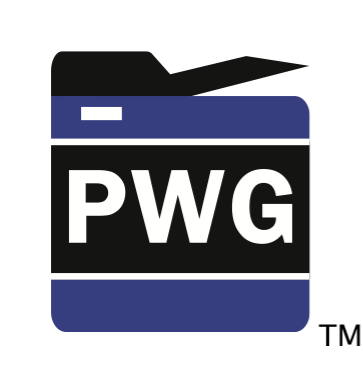
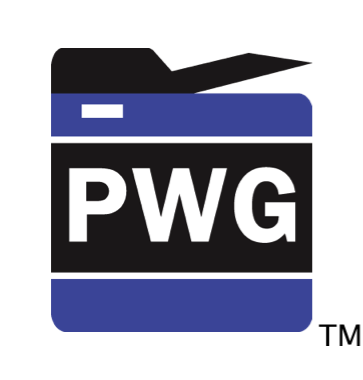
Update the home page to use the new layout but don't use the carousel - instead use expandable panels under the "jumbotron" with what we are announcing (last calls, upcoming meetings, etc.)
Also update logo images - noticed the new versions were substantially darker
than the originals - must be an issue with the default colorspace used when
importing EPS files...  Will want to update these again if I can figure things
out since we want high-res for retina displays...

diff --git a/dynamo/resources/pwg.css b/dynamo/resources/pwg.css
@@ -15,12 +15,12 @@ h1, h2, h3, h4, h5, h6, p, td, th {
 
 .jumbotron {
   border-radius: 8px;
-  padding: 20px;
-  padding-bottom: 20px;
-  padding-top: 1px;
+  padding: 1px 20px 10px;
+/*  padding-bottom: 20px;
+  padding-top: 1px;*/
 }
 
-.jumbotron, #pwg-rolling, #pwg-rolling .carousel-inner {
+#pwg-rolling, #pwg-rolling .carousel-inner {
   height: 300px;
 }
 
@@ -145,6 +145,34 @@ input[type="checkbox"] {
   height: 16px !important;
 }
 
+.pwg-logo {
+  height: 190px;
+  margin: -15px 15px 0px -20px; /* top right bottom left */
+  width: 181px;
+}
+
+.pwg-right {
+  float: right;
+}
+
+.panel-heading {
+  font-weight: bold;
+}
+
+.pwg-alert-panel {
+  border-left: 5px solid #4b5aa8;
+  border-right: 5px solid #4b5aa8;
+}
+
+.pwg-alert-panel a {
+  color: black;
+}
+
+.pwg-alert-panel a:hover  {
+  color: #4b5aa8;
+  text-decoration: none;
+}
+
 /* Some old site styles we are keeping around for now... */
 #PWGInfo TD {
   padding-right: 10px;
@@ -190,20 +218,6 @@ P.PWGHanging {
 
 P.PWGList A {
   white-space: nowrap;
-}
-
-.pwg-logo {
-  height: 190px;
-  margin: -15px 15px 0px -20px; /* top right bottom left */
-  width: 181px;
-}
-
-.pwg-logo-right {
-  float: right;
-}
-
-.panel-heading {
-  font-weight: bold;
 }
 
 /* Appearance tweaks for navigation bar */

diff --git a/dynamo/index.php b/dynamo/index.php
@@ -6,79 +6,114 @@
 include_once "phplib/site.php";
 include_once "phplib/db-article.php";
 
-site_header("Printer Working Group", "Making printers, multi-function devices, and software better with public standards.");
+site_header("");
 
-$matches  = article_search();
-$carousel = array();
+$matches = article_search();
 
-for ($i = 0, $count = 0; $i < sizeof($matches); $i ++)
+
+?>
+
+<div class="jumbotron">
+  <h1><img class="pwg-logo pwg-right hidden-xs" src="<?print($html_path);?>dynamo/resources/pwg-medium@2x.png">The Printer Working Group</h1>
+  <p>Our members include printer and multi-function device manufacturers, print server developers, operating system providers, print management application developers, and industry experts. We make printers, multi-function devices, and the applications and operating systems supporting them work together better.</p>
+  <p><a class="btn btn-primary btn-lg" href="<?print($html_path);?>about.html">More Info</a></p>
+</div>
+
+<?
+
+$firsttime = TRUE;
+
+for ($i = 0; $i < sizeof($matches); $i ++)
 {
   $article = new article($matches[$i]);
 
-  if ($article->id !== $matches[$i] || $article->display_until_date == "" || $article->display_until_date < date("Y-m-d"))
+  if ($article->display_until_date == "" || $article->display_until_date < date("Y-m-d") || $article->id != $matches[$i])
     continue;
 
-  $count ++;
-  $carousel["D$article->display_until_date+A$article->id"] = $article;
-}
-
-ksort($carousel);
-$carousel = array_values($carousel);
-
-print("<div class=\"jumbotron\">\n");
-if (sizeof($carousel) > 0)
-{
-  print("<div id=\"pwg-rolling\" class=\"carousel slide\" data-ride=\"carousel\">\n"
-       ."<ol class=\"carousel-indicators\">\n"
-       ."<li class=\"active\" data-target=\"#pwg-rolling\" data-slide-to=\"$i\"></li>\n");
-  for ($i = 1; $i <= sizeof($carousel); $i ++)
-    print("<li data-target=\"#pwg-rolling\" data-slide-to=\"$i\"></li>\n");
-  print("</ol>\n"
-       ."<div class=\"carousel-inner\">\n");
-  for ($i = 0; $i < sizeof($carousel); $i ++)
+  if ($firsttime)
   {
-    if ($i == 0)
-      print("<div class=\"item active\">");
-    else
-      print("<div class=\"item\">");
-
-    $article = $carousel[$i];
-    $article->view("", 1, FALSE, "btn-lg");
-    print("</div>\n");
+    print("<div class=\"panel-group\" id=\"pwg-display-until\">\n");
+    $firsttime = FALSE;
   }
 
-  print("<div class=\"item\">");
+  $title    = htmlspecialchars($article->title);
+  $contents = html_format($article->contents);
+  $url      = htmlspecialchars($article->url, ENT_QUOTES);
+
+  print("<div class=\"panel panel-default pwg-alert-panel\">\n"
+       ."  <div class=\"panel-heading\"><a class=\"pwg-right\" href=\"#a$article->id\" data-toggle=\"collapse\" data-parent=\"#pwg-display-until\"><span class=\"glyphicon glyphicon-chevron-down\"></span></a><a href=\"#a$article->id\" data-toggle=\"collapse\" data-parent=\"#pwg-display-until\">$title</a></div>\n"
+       ."  <div id=\"a$article->id\" class=\"panel-collapse collapse\">\n"
+       ."    <div class=\"panel-body\">$contents\n"
+       ."      <p><a class=\"btn btn-default btn-sm\" href=\"$url\">More Info</a></p>\n"
+       ."    </div>\n"
+       ."  </div>\n"
+       ."</div>\n");
 }
 
-print("<h1>The Printer Working Group</h1>\n"
-     ."<p>Our members include printer and multi-function device manufacturers, print server developers, operating system providers, print management application developers, and industry experts. We make printers, multi-function devices, and the applications and operating systems supporting them work together better.</p>\n"
-     ."<p><a class=\"btn btn-primary btn-lg\" href=\"${html_path}about.html\">More Info</a></p>\n");
-
-if (sizeof($carousel) > 0)
-  print("</div>\n"
-       ."</div>\n"
-       ."</div>\n"
-       ."</div>\n");
-else
+if (!$firsttime)
   print("</div>\n");
 
-print("<h1>PWG News</h1>\n");
+?>
+<div class="row">
+  <div class="col-md-3 col-sm-6">
+    <div class="panel panel-default">
+      <div class="panel-heading">Standards</div>
+      <div class="panel-body">
+        <p>PWG Standards define all of the common network protocols used by your printer.</p>
+        <p><a class="btn btn-default btn-sm" href="<?print($html_path);?>standards.html">More Info</a></p>
+      </div>
+    </div>
+  </div>
+  <div class="col-md-3 col-sm-6">
+    <div class="panel panel-default">
+      <div class="panel-heading">IPP Everywhere</div>
+      <div class="panel-body">
+	<p>Print to any network or USB printer without using special software from the manufacturer.</p>
+	<p><a class="btn btn-default btn-sm" href="<?print($html_path);?>ipp/everywhere.html">More Info</a><?
+	  if ($SITE_SHOW_BETA)
+	    print(" <a class=\"btn btn-default btn-sm\" href=\"${html_path}dynamo/eveprinters.php\">Find Printers</a>\n");?></p>
+      </div>
+    </div>
+  </div>
+  <div class="col-md-3 col-sm-6">
+    <div class="panel panel-default">
+      <div class="panel-heading">PWG Semantic Model</div>
+      <div class="panel-body">
+        <p>Support multiple network protocols and job ticket formats using our abstract model.</p>
+        <p><a class="btn btn-default btn-sm" href="<?print($html_path);?>sm/index.html">More Info</a></p>
+      </div>
+    </div>
+  </div>
+  <div class="col-md-3 col-sm-6">
+    <div class="panel panel-default">
+      <div class="panel-heading">SNMP MIBs</div>
+      <div class="panel-body">
+        <p>Monitor jobs, status, and supplies, and manage your printers remotely using SNMP.</p>
+        <p><a class="btn btn-default btn-sm" href="<?print($html_path);?>wims/index.html">More Info</a></p>
+      </div>
+    </div>
+  </div>
+</div>
+<div class="row">
+<div class="col-md-12">
+  <div class="panel panel-default"><div class="panel-heading">PWG News</div>
+  <div class="panel-body">
+<?
 
 for ($i = 0, $count = 0; $i < sizeof($matches) && $count < 5; $i ++)
 {
   $article = new article($matches[$i]);
 
-  if ($article->display_until_date != "")
-    continue;
-
   if ($article->id == $matches[$i])
   {
     $count ++;
-    $article->view("", 2, FALSE);
+    $article->view("", 3, FALSE);
   }
 }
 
-print("<p><a class=\"btn btn-default btn-xs\" href=\"${html_path}/dynamo/articles.php\">View Older Articles</a></p>\n");
+print("<p><a class=\"btn btn-default btn-xs\" href=\"${html_path}/dynamo/articles.php\">View Older Articles</a></p>\n"
+     ."</div></div>\n"
+     ."</div></div>\n");
 
 if (sizeof($carousel) > 0)
   site_footer("pwg-rolling.js");
